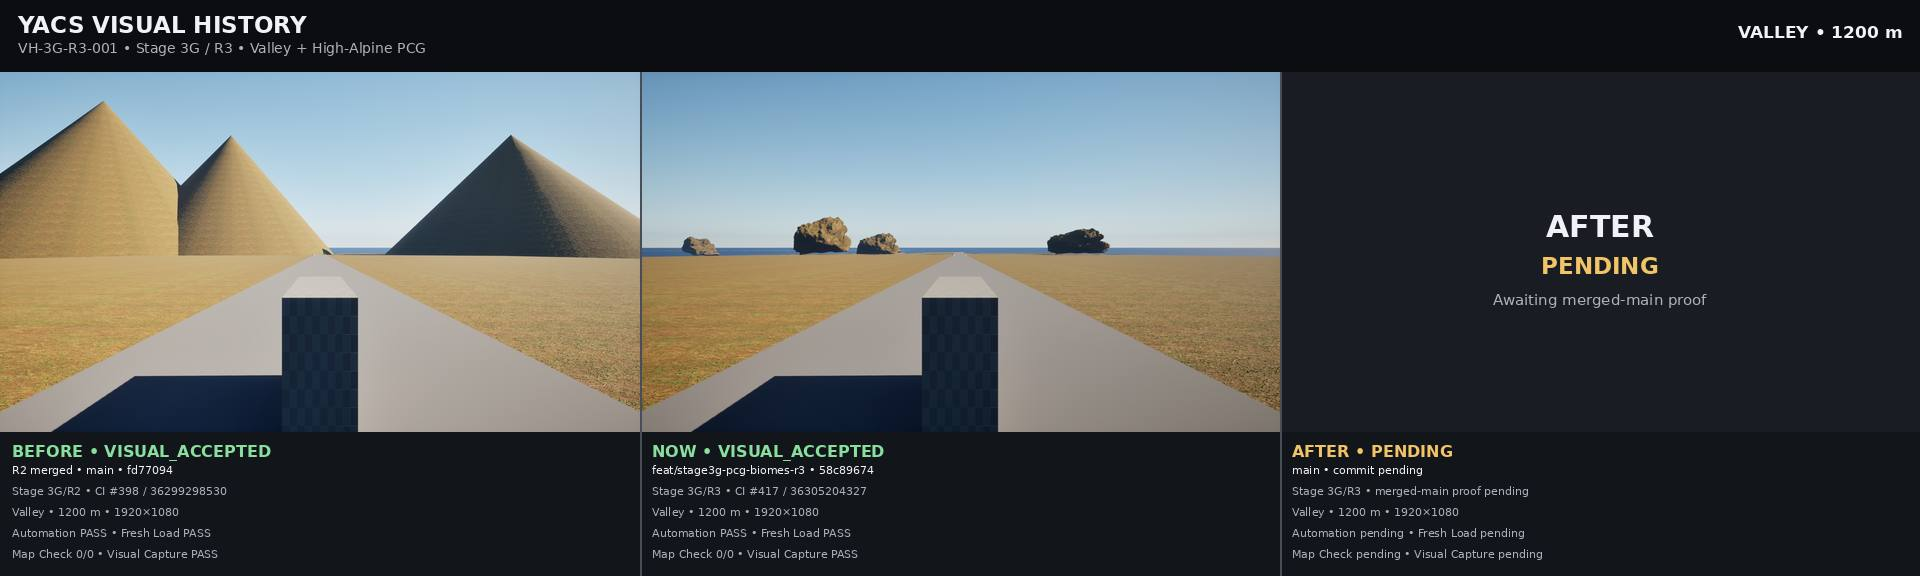
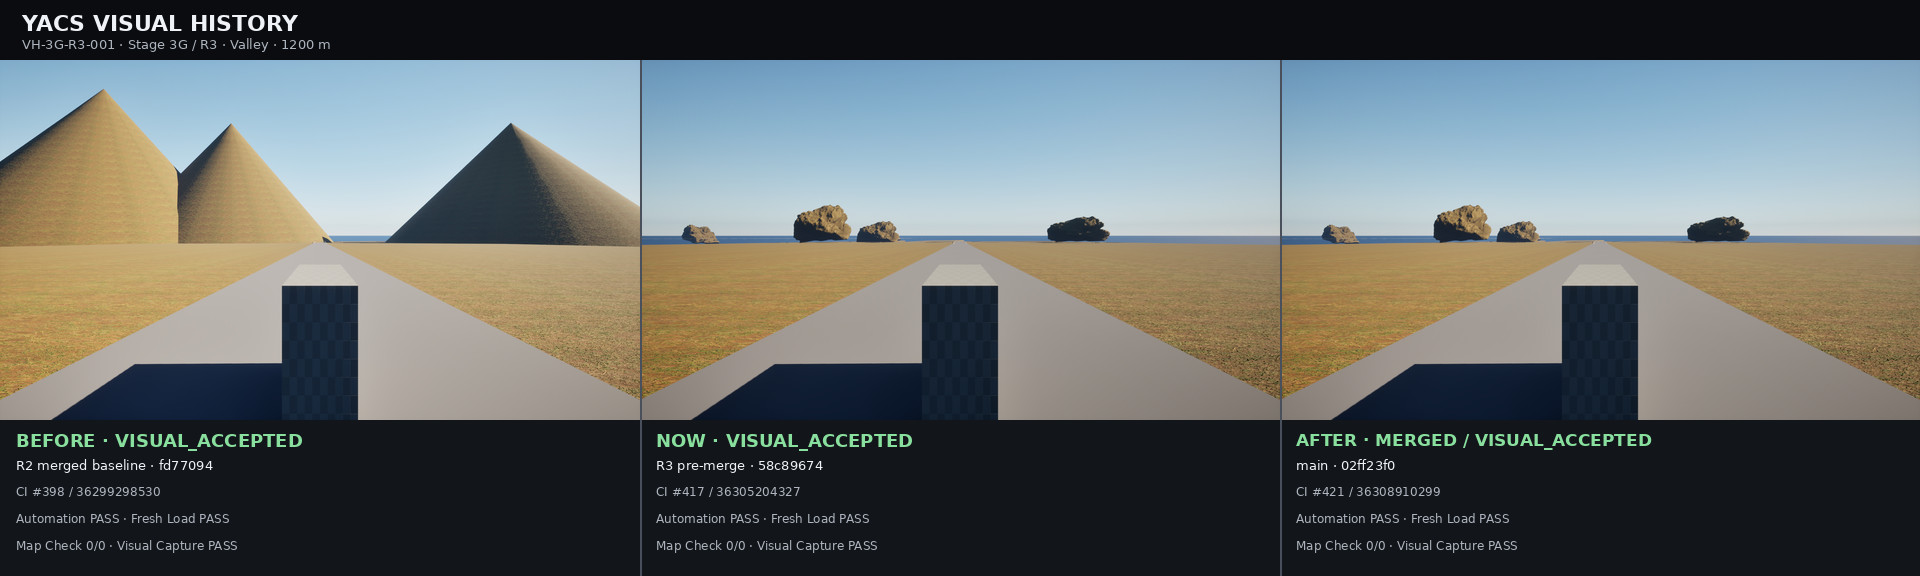
docs(visual-history): close R3 with merged-main AFTER proof (#196)
* ci(visual-history): add one-shot R3 AFTER finalizer

* ci(visual-history): finalize merged R3 AFTER evidence

* fix(visual-history): download CI artifacts through gh client

* fix(visual-history): consume locally downloaded artifacts

* fix(visual-history): stage artifacts before finalizer

* docs(visual-history): persist merged R3 AFTER proof

* docs(visual-history): close R3 with merged-main AFTER proof

* chore(visual-history): remove one-shot AFTER workflow

* chore(visual-history): remove one-shot AFTER finalizer

---------

diff --git a/docs/visual-history/stage-3g/R3-valley-high-alpine/summary.md b/docs/visual-history/stage-3g/R3-valley-high-alpine/summary.md
@@ -1,115 +1,77 @@
 # VH-3G-R3-001 — Stage 3G / R3 — Valley + High-Alpine PCG
 
-## Goal
+## Final state
 
-Complete the valley and high-Alpine presentation using deterministic route-aware worldgen, remove obvious Engine Cone biome massing, preserve the accepted R2 forest sector and prove the result visually at stable route cameras.
+- Technical status: **MERGED**
+- Visual status: **VISUAL_ACCEPTED**
+- Issue: **#187 — CLOSED**
+- PR: **#192 — MERGED**
+- Merge commit: `02ff23f0a24228432ae9c34eb65aa4cb3694ae1d`
+- Merged-main proof: **CyclingSim CI #421 / 36308910299 — GREEN**
 
-## Roadmap
+R3 is complete as the accepted valley/high-Alpine biome and massing baseline. It is not the final Stage 7 environment-art pass, and it does not close the remaining Stage 3G terrain, road, atmosphere or explicit environment-performance gates.
 
-- Stage: **Stage 3G**
-- Version: **R3**
-- Issue: **#187**
-- PR: **#192 — draft**
+## Provenance chain
 
-## Baseline — BEFORE
+| State | Revision | Proof | Decision |
+|---|---|---|---|
+| **BEFORE** | R2 merged baseline `fd77094…` | CI #398 / `36299298530` | `VISUAL_ACCEPTED` |
+| **NOW** | R3 visual revision `58c89674…` | CI #417 / `36305204327` | `VISUAL_ACCEPTED` |
+| final sync | `d7dd75a8…` | CI #420 / `36308404800` | exact-SHA technical PASS |
+| **AFTER** | merged `main` `02ff23f0…` | CI #421 / `36308910299` | `MERGED + VISUAL_ACCEPTED` |
 
-- Accepted baseline: Stage 3G R2
-- Merge commit: `fd77094ffe0c8f29c3bd9949ba22079fc73fc1c5`
-- Visual status: `VISUAL_ACCEPTED`
+## Why Visual History mattered
 
-## Current — NOW
+The rejected R3 checkpoints remain part of the history:
 
-- Branch: `feat/stage3g-pcg-biomes-r3`
-- Current visual-integration SHA: `58c89674656ddec1bce9473547d366f6798dcfb5`
-- Technical status: `CI_GREEN`
-- Visual status: `VISUAL_ACCEPTED`
+- **#408 / `0148f894`** — technical PASS, visual reject: persisted PCG graphs were not visibly consumed by the reference scene.
+- **#412 / `07e0803b`** — technical PASS, visual reject: real massing appeared but was oversized and floating.
+- **#415 / `7de2cc46`** — technical PASS, visual reject: scale improved, but distant high-Alpine massing still lacked terrain support.
+- **#417 / `58c89674`** — technical PASS and visual acceptance: massing became grounded on supported presentation terrain.
 
-## Important rejected checkpoint
+This is the intended separation between technical and visual acceptance.
 
-Commit `0148f894e9036dfe6b7c1d7176922e65e7024a65` passed CyclingSim CI **#408 / 36302003337** including the full Stage 3G proof.
+## Final merged-main proof
 
-It was **not visually accepted**.
-
-Reason: `PCG_Valley` and `PCG_HighAlpine` were persisted and technically correct, but the rendered reference map did not visibly consume them. The 1200 m and 8000 m captures remained effectively the R2 scene.
-
-This checkpoint is intentionally preserved in Visual History because it demonstrates why technical and visual acceptance are separate gates.
-
-## Current visual-integration change
-
-The active R3 revision replaces the remaining valley/high-Alpine Engine Cone massing with bounds-aware instances of the validated `SM_Stage3G_Boulder` while keeping deterministic instance counts and the R2 forest baseline intact.
-
-## Technical proof
+CI #421 ran against exact merged SHA `02ff23f0a24228432ae9c34eb65aa4cb3694ae1d`.
 
 - Unreal build + scoped Automation: **PASS**
+- Automation report: **70 / 70 passed**, 0 failed, 0 errors
 - Stage 3G full validation: **PASS**
 - Fresh Load: **PASS**
 - Map Check: **0 errors / 0 warnings**
-- LFS fsck: **PASS**
+- Git LFS fsck: **PASS**
 - Visual Capture: **PASS**
-- Aggregate CI gate: **PASS**
-- CI run: **#417 / 36305204327**
-- Proof artifact: `stage3g-full-validation-36305204327-1`
-- Ground-support contract: **PASS**
+- Capture resolution: **1920×1080**
+- Required distances: **1200 / 4900 / 8000 m**
+- Proof artifact: `stage3g-full-validation-36308910299-1`
 
-## Visual iteration history
+The artifact proves successful 1080p capture and the Stage 3G functional/visual contract. It does **not** contain a dedicated environment FPS/GPU budget result, so the separate performance-sanity gate remains open where the asset plan requires it.
 
-- **#408 / 0148f894** — technical PASS, visual reject: PCG graph output was not visibly consumed.
-- **#412 / 07e0803b** — technical PASS, visual reject: real massing visible but oversized/floating.
-- **#415 / 7de2cc46** — technical PASS, visual reject: scale bounded, but distant massing still lacked terrain support.
-- **#417 / 58c89674** — technical PASS, **visual accepted NOW**: massing is grounded on supported presentation terrain.
+## Final captures
 
-## World-generation inputs
+| Capture | BEFORE SHA-256 | NOW SHA-256 | AFTER SHA-256 |
+|---|---|---|---|
+| Valley 1200 m | `de391fb72074…` | `169ff6fff360…` | `5cefb738c8e0…` |
+| Forest 4900 m | `c1b1b6a3109e…` | `56233de89d86…` | `867144551a0c…` |
+| High Alpine 8000 m | `d1491bbfd506…` | `189e3f63fabb…` | `7dc5dfd18409…` |
 
-- Seed: `42017`
-- Route clearance: `4.0 m`
-- Graphs: `PCG_Valley`, `PCG_RouteExclusion`, `PCG_Forest`, `PCG_HighAlpine`
-- Valley: `0–3700 m`, rock density `0.10`
-- Forest: `3700–6200 m`, density `0.72`
-- High Alpine: `6200–10000 m`, rock density `0.65`
-- Route truth: `FRouteGeometryProfile`
+The full source hashes and artifact provenance are recorded in `capture-hashes.json` and `manifest.json`.
 
-## Asset delta
+## Durable final triptychs
 
-- `SM_Stage3G_Boulder` — validated real mesh for valley/high-Alpine massing and rock dressing.
-- `SM_Stage3G_FirSaplingMedium` — retained accepted forest asset.
-- Targeted placeholders removed from visible biome massing: Engine Cone valley ridge / near-Alpine / distant mountain presentation.
+The repository-retained final `BEFORE | NOW | AFTER` evidence is:
 
-## Visual acceptance criteria
[3 lines of base64/hex data omitted]
 
-### 1200 m — Valley
-
-**VISUAL_ACCEPTED for R3 baseline.** Real boulder massing is grounded, kept away from the road and reads as valley-side landform dressing rather than floating geometry.
-
-### 4900 m — Forest
-
-**VISUAL_ACCEPTED / preserved baseline.** The R2 conifer forest and road-clearance readability remain intact.
-
-### 8000 m — High Alpine
-
-**VISUAL_ACCEPTED for R3 baseline.** Real rocks are grounded on widened high-Alpine presentation terrain, remain outside the road corridor and no longer float above the horizon.
-
-This is still a Stage 3G reference baseline, not final Stage 7 environment art: the road, broad terrain forms, atmosphere and overall scene composition remain intentionally open for later polish.
-
-## AFTER
-
-`PENDING — awaiting visual acceptance`
-
-No current NOW capture may be promoted to AFTER until the committed-SHA proof and human visual review both pass.
+Each final triptych is 1920×576 and contains genuine R2, accepted R3 pre-merge and merged-main R3 captures. AFTER is no longer a placeholder.
 
 ## Decision
 
 - Technical acceptance: **YES**
-- Visual acceptance: **YES — NOW accepted**
-- Visual change detected: **YES**
-- Rejection reason: **none for 58c89674**
-- Next step: sync #192 with current `main`, run one final exact-SHA proof, merge, then capture merged `main` as AFTER and close VH-3G-R3-001.
-
-## Durable triptych evidence
-
-The R3 pre-merge Visual History triptychs are retained in the repository under `captures/`. They were deterministically materialized from the canonical R2 CI #398 and R3 CI #417 proof artifacts after verifying the source PNG SHA-256 values recorded in the manifest.
-
[3 lines of base64/hex data omitted]
-
-`AFTER` intentionally remains **PENDING** until #192 is merged and a merged-main exact-SHA proof/capture exists.
+- Visual acceptance: **YES**
+- Merge acceptance: **YES**
+- Visual History entry: **CLOSED**
+- Remaining work: continue the broader Stage 3G reference-environment gates without reopening R3 unless a regression is discovered.

diff --git a/docs/ASSET_PLAN.md b/docs/ASSET_PLAN.md
@@ -490,11 +490,11 @@ Po wyborze konkretnych paczek tabela poniżej staje się rejestrem źródła pra
 
 | Asset / pack | Źródło | Licencja | Cena | Stage | Status | Uwagi |
 |---|---|---|---:|---|---|---|
-| Sparse Grass (`sparse_grass`) | Poly Haven | CC0 | 0 zł | 3G | imported | meadow/valley ground; 2K source imported to project-owned Stage 3G textures; validation still requires in-sector proof |
-| Forest Ground 03 (`forrest_ground_03`) | Poly Haven | CC0 | 0 zł | 3G | imported | pine-needle forest floor; 2K source imported to project-owned Stage 3G textures; validation pending forest proof |
-| Rocky Terrain (`rocky_terrain`) | Poly Haven | CC0 | 0 zł | 3G | imported | high-Alpine ground layer; 2K source imported to project-owned Stage 3G textures; validation pending 8000 m proof |
+| Sparse Grass (`sparse_grass`) | Poly Haven | CC0 | 0 zł | 3G | imported | meadow/valley ground; merged-main 1200 m visual proof accepted in PR #192 / CI #421; LOD/instancing/performance-cost proof remains before `validated` |
+| Forest Ground 03 (`forrest_ground_03`) | Poly Haven | CC0 | 0 zł | 3G | imported | pine-needle forest floor; 4900 m visual proof and final three-biome Visual History are accepted; source-asset LOD/performance validation remains before `validated` |
+| Rocky Terrain (`rocky_terrain`) | Poly Haven | CC0 | 0 zł | 3G | imported | high-Alpine ground layer; merged-main 8000 m visual proof accepted in PR #192 / CI #421; LOD/performance-cost proof remains before `validated` |
 | Rock Face 01 (`rock_face_01`) | Poly Haven | CC0 | 0 zł | 3G | approved | roadside cliff candidate; performance validation pending |
-| Boulder 01 (`boulder_01`) | Poly Haven | CC0 | 0 zł | 3G | imported | canonical `SM_Stage3G_Boulder` plus textures are in repo and used by Stage 3G; final validation still requires visual/perf proof |
+| Boulder 01 (`boulder_01`) | Poly Haven | CC0 | 0 zł | 3G | imported | canonical `SM_Stage3G_Boulder` is used by accepted R3 valley/high-Alpine massing; merged-main visual proof passed, explicit LOD/instancing/performance sanity remains before `validated` |
 | Mountainside (`mountainside`) | Poly Haven | CC0 | 0 zł | 3G | candidate | mid-ground mountain mass; compare against cheaper authored geometry |
 | Fir Tree 01 (`fir_tree_01`) | Poly Haven | CC0 | 0 zł | 3G | candidate | retained as a hero/sparse conifer candidate; broad-scatter reduction in PR #162 is blocked by whole-FBX A/B/C import memory pressure on the trusted runner, so it is not the R2 mass-forest mesh |
 | Fir Sapling (`fir_sapling`) | Poly Haven | CC0 | 0 zł | 3G | candidate | lightweight young-tree / understory candidate; useful as forest variation, not the primary tall-canopy mesh |
@@ -513,16 +513,16 @@ Pobranie źródeł **nie oznacza akceptacji assetu do mapy**. Status `candidate`
 
 PR #155 udowodnił authoring/CI/proof harness, ale nie przesunął source assetów przez pełny lifecycle. Dlatego Stage 3G pozostaje otwarty do czasu wykonania co najmniej:
 
-- [x] `Sparse Grass` -> `imported`; [ ] -> `validated` w valley/meadow po finalnym 1200 m Visual History acceptance;
-- [x] `Forest Ground 03` -> `imported`; [x] zaakceptowany forest-ground proof w R2; pełny 3-biome visual gate pozostaje otwarty;
-- [x] `Rocky Terrain` -> `imported`; [ ] -> `validated` w high Alpine po finalnym 8000 m Visual History acceptance;
-- [x] `Boulder 01` -> `imported` i używany jako rzeczywisty rock dressing; [ ] finalne `validated` dla valley/high-Alpine massing po R3 Visual History acceptance;
+- [x] `Sparse Grass` -> `imported` i 1200 m Visual History acceptance zaliczone; [ ] -> `validated` po LOD/instancing/performance-cost proof;
+- [x] `Forest Ground 03` -> `imported`; [x] forest-ground proof + pełny 3-biome Visual History gate zaakceptowane; [ ] source-asset LOD/performance validation przed `validated`;
+- [x] `Rocky Terrain` -> `imported` i 8000 m Visual History acceptance zaliczone; [ ] -> `validated` po LOD/performance-cost proof;
+- [x] `Boulder 01` -> `imported`, używany w R3 i visual acceptance zaliczone; [ ] finalne `validated` po explicit LOD/instancing/environment-performance sanity;
 - [x] `Fir Sapling Medium` -> `validated` jako R2 mass-scatter conifer: PR #162 / CI #398 / 4900 m visual proof;
 - [x] `PCG_RouteExclusion` -> `validated` po R2 deterministic reload + route-clearance + committed-SHA proof;
 - [x] `PCG_Forest` -> `validated` jako pierwszy produkcyjnie użyteczny graph scatterujący zatwierdzony realny asset;
-- [ ] `PCG_Valley` + `PCG_HighAlpine` -> `validated` po R3 1200/8000 m Visual History acceptance;
-- [ ] capture 1200/4900/8000 m pokazuje faktyczne assety i rozróżnialne biomy jako zaakceptowany tryptyk `BEFORE | NOW | AFTER`;
-- [ ] 1080p sanity nie wykazuje nieakceptowalnej regresji na komputerze referencyjnym.
+- [x] `PCG_Valley` + `PCG_HighAlpine` -> persisted/reloaded, PR #192 MERGED, 1200/8000 m Visual History + merged-main CI #421 zaliczone; [ ] -> `validated` po explicit environment performance sanity;
+- [x] capture 1200/4900/8000 m pokazuje faktyczne assety i rozróżnialne biomy jako zaakceptowany, trwały tryptyk `BEFORE | NOW | AFTER` z merged-main AFTER;
+- [x] merged-main visual capture 1920x1080 + Fresh Load + Map Check 0/0 zaliczone; [ ] osobny environment performance sanity / budżet 1080p/60 FPS pozostaje wymagany.
 
 Dopiero wtedy minimalny environment asset baseline przechodzi z 3G do Stage 7 jako **punkt startowy do rozwijania**, a nie jako niewykonana zaległość.
 
@@ -532,9 +532,9 @@ Technical assets zwykle nie mają osobnej ceny zakupu, ale mogą dziedziczyć og
 
 | Technical UE asset | Typ | Stage | Status | Źródła wejściowe / zależności | Wymagany proof |
 |---|---|---|---|---|---|
-| `PCG_Valley` | PCG Graph | 3G | reviewed | WorldSpec + `FRouteGeometryProfile` + route exclusion + validated Boulder 01 | persisted/reloaded on R3 branch; `validated` requires 1200 m Visual History acceptance + perf sanity |
+| `PCG_Valley` | PCG Graph | 3G | reviewed | WorldSpec + `FRouteGeometryProfile` + route exclusion + Boulder 01 | PR #192 merged; persisted/reloaded, 1200 m Visual History and merged-main CI #421 passed; explicit environment perf sanity remains before `validated` |
 | `PCG_Forest` | PCG Graph | 3G/7 | validated | WorldSpec + validated route exclusion + Fir Sapling Medium / forest-ground assets | PR #162 / CI #398: deterministic reload, route exclusion, real Static Mesh Spawner, 4900 m visual proof, full Stage 3G validation |
-| `PCG_HighAlpine` | PCG Graph | 3G/7 | reviewed | WorldSpec + `FRouteGeometryProfile` + route exclusion + validated Boulder 01 / high-Alpine materials | persisted/reloaded on R3 branch; `validated` requires 8000 m Visual History acceptance + perf sanity |
+| `PCG_HighAlpine` | PCG Graph | 3G/7 | reviewed | WorldSpec + `FRouteGeometryProfile` + route exclusion + Boulder 01 / high-Alpine materials | PR #192 merged; persisted/reloaded, 8000 m Visual History and merged-main CI #421 passed; explicit environment perf sanity remains before `validated` |
 | `PCG_RouteExclusion` | PCG helper/settings | 3G | validated | authoritative `FRouteGeometryProfile` + tested Stage 3G route-clearance contract | PR #162 / CI #398 deterministic reload + protected 4 m route corridor + full Stage 3G proof |
 | `IK_Rider` | IK Rig | 6 | planned | production rider skeleton | retarget chain validation |
 | `RTG_CyclingMocap` | IK Retargeter | 6 | planned | mocap source + rider IK rigs | representative cycling clip retarget proof |
@@ -546,7 +546,7 @@ Technical assets zwykle nie mają osobnej ceny zakupu, ale mogą dziedziczyć og
 
 Statusy technical assets: `planned`, `prototype`, `reviewed`, `validated`, `deprecated`, `removed`.
 
-Tabela opisuje stan zaakceptowany dla bieżącej linii dokumentacji/main oraz jawnie oznaczone aktywne review. R2 / PR #162 jest scalone i daje status `validated` dla `PCG_RouteExclusion` oraz `PCG_Forest`. `PCG_Valley` i `PCG_HighAlpine` są `reviewed` na aktywnym R3 / PR #192 i nie przechodzą do `validated`, dopóki 1200 m i 8000 m nie zaliczą Visual History acceptance.
+Tabela opisuje stan zaakceptowany dla bieżącej linii dokumentacji/main oraz jawnie oznaczone aktywne review. R2 / PR #162 jest scalone i daje status `validated` dla `PCG_RouteExclusion` oraz `PCG_Forest`. R3 / PR #192 jest scalone, a `PCG_Valley` i `PCG_HighAlpine` zaliczyły 1200/8000 m Visual History oraz merged-main CI #421; pozostają `reviewed` wyłącznie do czasu osobnego environment performance sanity wymaganego przez ledger.
 
 Technical asset przechodzi do `validated` dopiero po wymaganym build/proofie na komputerze referencyjnym.
 

diff --git a/docs/ROADMAP.md b/docs/ROADMAP.md
@@ -268,7 +268,7 @@ Stage 3 jest realizowany kolejno:
 
 ## 3G — Reference Environment Pass
 
-> **Status 27.09.2026:** R2 / PR #162 jest MERGED jako `fd77094…` i stanowi zaakceptowany forest baseline. Aktywna transza **R3 / #187 / Draft PR #192** ma zapisane `PCG_Valley` + `PCG_HighAlpine` oraz realne boulder massing. Po trzech jawnie zachowanych odrzuconych iteracjach bieżący NOW `58c89674…` / CI #417 przeszedł build, Automation, full Stage 3G proof i **Visual History acceptance** dla 1200/4900/8000 m. R3 pozostaje otwarte wyłącznie do synchronizacji z aktualnym `main`, finalnego exact-SHA CI, merge i zarejestrowania merged-main `AFTER`.
+> **Status 27.09.2026:** R2 / PR #162 jest MERGED jako `fd77094…` i stanowi zaakceptowany forest baseline. **R3 / #187 / PR #192 jest MERGED** jako `02ff23f0…`: NOW `58c89674…` przeszedł Visual History acceptance w CI #417, zsynchronizowany SHA `d7dd75a8…` przeszedł finalny pre-merge CI #420, a merged `main` `02ff23f0…` przeszedł pełny Stage 3G proof w CI #421. Finalne `BEFORE | NOW | AFTER` dla 1200/4900/8000 m są trwale zapisane. **R3 jest zamknięte; Stage 3G jako całość pozostaje otwarte** dla niżej wymienionych prac terrain/road/atmosphere oraz jawnego environment performance sanity.
 
 - [ ] Ukształtować spójną dolinę otaczającą drogę zamiast czytelnych jako osobne kafle podpór terenu.
 - [ ] Zbudować kilka planów gór z wyraźną głębią i atmospheric perspective.
@@ -285,9 +285,9 @@ Stage 3 jest realizowany kolejno:
 |---|---|---|---|
 | `VH-3G-R1-001` | R1 — real Alpine ground + rocks | historical accepted baseline | PR #160 / `91c1150…` |
 | `VH-3G-R2-001` | R2 — deterministic PCG forest | **VISUAL_ACCEPTED / MERGED** | PR #162 / `fd77094…` / CI #398 |
-| `VH-3G-R3-001` | R3 — valley + high-Alpine PCG/massing | **NOW VISUAL_ACCEPTED · AFTER PENDING** | #187 / Draft PR #192 / CI #417 |
+| `VH-3G-R3-001` | R3 — valley + high-Alpine PCG/massing | **VISUAL_ACCEPTED / MERGED** | #187 / PR #192 / `02ff23f0…` / CI #421 |
 
-R3 zachowuje wszystkie odrzucone checkpointy (#408 brak widocznej integracji, #412 oversized/floating massing, #415 brak podłoża dla distant massing). Bieżący NOW `58c89674…` / CI #417 jest **VISUAL_ACCEPTED** jako R3 biome/massing baseline. `AFTER` pozostaje PENDING do merge i merged-main proofu.
+R3 zachowuje wszystkie odrzucone checkpointy (#408 brak widocznej integracji, #412 oversized/floating massing, #415 brak podłoża dla distant massing). NOW `58c89674…` / CI #417 został zaakceptowany wizualnie, a finalny AFTER pochodzi z merged `main` `02ff23f0…` / CI #421. Ten wpis Visual History jest zamknięty; dalszy polish świata należy do pozostałych gate'ów Stage 3G i późniejszego Stage 7.
 
 ### Tooling gate 3G
 
